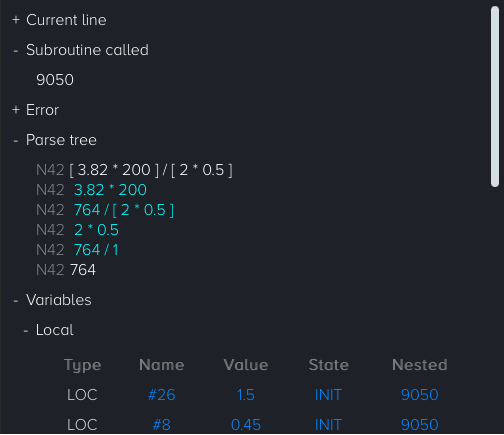
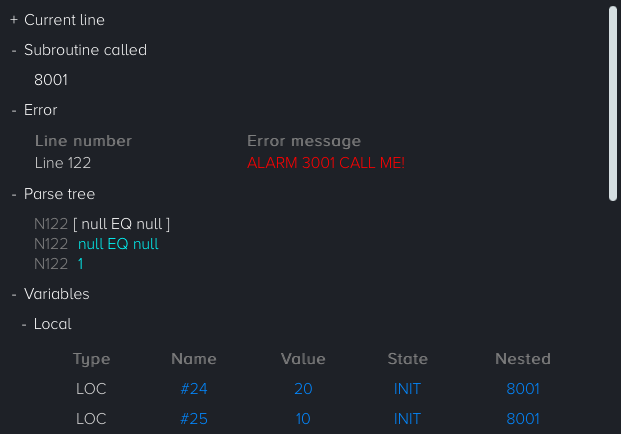
updated

diff --git a/index.html b/index.html
@@ -84,6 +84,7 @@
           <div id="gallery__selector">
             <img src="resources/conversational-programming.png" alt="cnc conversational programmin">
             <img src="resources/macro-circle.png" alt="a circle generate using parametric programming">
+            <img src="resources/laser2.png" alt="cnc laser cutter program using Fanuc Macro B">
             <img src="resources/debugging.png" alt="debugging macro program using built-in debugger">
             <img src="resources/sphere.png" alt="creating sphere using programming parametric">
             <img src="resources/plazma.png" alt="cnc plazma cutter program">
@@ -181,7 +182,7 @@
             <div class="card__title">
               Macro analyzing tool
             </div>
-            <img class="card__img" src="resources/debugger.png" alt="debugging fanuc macro B program" />
+            <img class="card__img" src="resources/debugger2.png" alt="debugging fanuc macro B program" />
             <div class="card__content">
               See step by step what variables are used, evaluation of mathematical operations with tool path simulation
             </div>
@@ -308,6 +309,8 @@
           <li>math and logical calculations in line</li>
           <li>for IF and WHILE statement shows the actual value (true or false)</li>
           <li>adjustable debugging speed</li>
+          <li>seamless manual control over modifying local, common, and system variable values during active debugging
+          </li>
         </ul>
         <h1 class="main__subtitle" id="code-editor">Code editor</h1>
         <ul class="list">
@@ -327,6 +330,7 @@
         <h1 class="main__subtitle">Advanced calculator</h1>
         <ul class="list">
           <li>use of variables (including system ones)</li>
+          <li>reads the values of both common and system variables used during debugging</li>
           <li>use of logical and arithmetic operators (as in Fanuc Macro B or Centroid)</li>
           <li>using functions (same as Fanuc Macro B)</li>
           <li>supports Fanuc Macro B and Centroid syntax</li>
@@ -447,12 +451,13 @@
         <div style="padding:1rem;color:red" class="hide">
           <p>* depends on the version purchased, ** depends on the selected settings</p>
         </div>
+
         <div class="main__pricing" id="purchase">
           <div class="main__pricing-card">
             <div class="main__pricing-title">CNC Macro Simulator II STUDIO</div>
             <div class="main__pricing-desc">(unlimited number of devices)</div>
             <div class="main__pricing-normal-price hide">529.00</div>
-            <div class="main__pricing-discount-price" data-id="pay-price">397</div>
+            <div class="main__pricing-discount-price" id="pay-price">529</div>
           </div>
           <div class="main__pricing-card">
             <div class="main__pricing-pay-button-container">

diff --git a/js/build.js b/js/build.js
@@ -280,7 +280,7 @@ const main = () => {
     psv.addEventListener('click', () => {
       localStorage.setItem("data", JSON.stringify({
         name: 'STUDIO',
-        price: '397',
+        price: document.querySelector('#pay-price').innerHTML,
         license: 'unlimited number of devices'
       }))
       window.location.href = 'payment.html'
